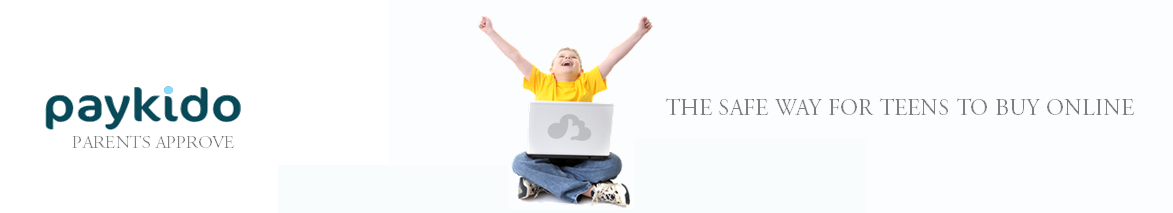
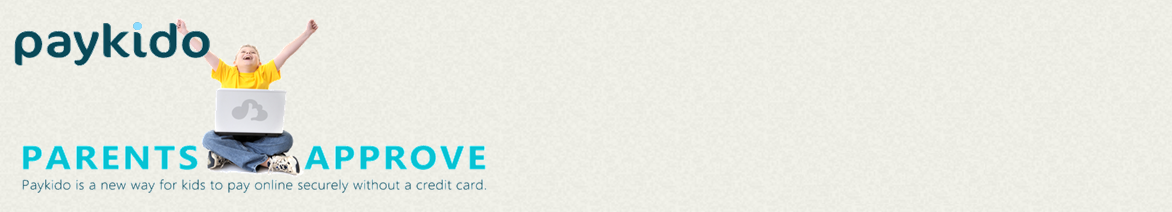
Registration and new look complete

diff --git a/public/stylesheets/subscriber.css b/public/stylesheets/subscriber.css
@@ -1,3 +1,65 @@
+.ui-very-rounded-corners {
+	border-bottom-left-radius: 20px;
+    border-bottom-right-radius: 20px;
+    border-top-left-radius: 20px;
+    border-top-right-radius: 20px;
+}
+
+#tell_me_more, #register {
+	-webkit-text-shadow: 0px -1px #666, 0px 0px #FFF;
+	-mox-text-shadow: 0px -1px #666, 0px 0px #FFF;
+	text-shadow: 0px -1px #666, 0px 0px #FFF;
+	color: #00BCCF;
+	z-index: 1000;
+	position: absolute;
+    top: 108px;
+    left: 1020px;
+	font-size: 20px;
+    height: 50px;
+    width: 147px;
+    z-index: 1000;
+	box-shadow: 0 2px 6px rgba(0,0,0,0.5), inset 0 1px rgba(255,255,255,0.3), inset 0 10px rgba(255,255,255,0.2), inset 0 10px 20px rgba(255,255,255,0.25), inset 0 -15px 30px rgba(0,0,0,0.3);
+   -o-box-shadow: 0 2px 6px rgba(0,0,0,0.5), inset 0 1px rgba(255,255,255,0.3), inset 0 10px rgba(255,255,255,0.2), inset 0 10px 20px rgba(255,255,255,0.25), inset 0 -15px 30px rgba(0,0,0,0.3);
+   -webkit-box-shadow: 0 2px 6px rgba(0,0,0,0.5), inset 0 1px rgba(255,255,255,0.3), inset 0 10px rgba(255,255,255,0.2), inset 0 10px 20px rgba(255,255,255,0.25), inset 0 -15px 30px rgba(0,0,0,0.3);
+   -moz-box-shadow: 0 2px 6px rgba(0,0,0,0.5), inset 0 1px rgba(255,255,255,0.3), inset 0 10px rgba(255,255,255,0.2), inset 0 10px 20px rgba(255,255,255,0.25), inset 0 -15px 30px rgba(0,0,0,0.3);}
+	border-bottom-left-radius: 20px;
+    border-bottom-right-radius: 20px;
+    border-top-left-radius: 20px;
+    border-top-right-radius: 20px;
+
+
+}
+
+#else.invitation_msg {
+
+	top: 200px;
+	    font-size: 20px;
+	font-family: Lucida Grande,Lucida Sans,Arial,sans-serif;
+
+
+}
+#second{
+	top: 120px;
+	font-size: 22px;
+	color: #00BCCF;
+	font-family: Lucida Grande,Lucida Sans,Arial,sans-serif;
+
+}
+#third{
+	top:153px;
+	
+}
+
+.invitation_msg {
+	z-index: 1000;
+	position: absolute;
+	left: 704px;
+	font-family:"Arial Rounded MT Bold";
+	color: #444444;
+	font-family: "Trebuchet MS";
+}
+
+
 .ui-widget-header input{
 	text-shadow: 0px -1px #666, 0px 0px #FFF;
 	-webkit-text-shadow: 0px -1px #666, 0px 0px #FFF;
@@ -80,9 +142,7 @@ td {
 }
 
 
-#under, #over {
-	margin-right: 235px;	
-}
+
 
 /*
 .ui-tabs-selected a {
@@ -190,7 +250,7 @@ img#gradient_wrap {
 
 #consumer_info_name, #consumer_info_phone, #consumer_info_pin, #consumer_info_pic {
 	float: right;
-	margin-right: 220px;
+	margin-right: 0px;
 	border-width: 0px;
 	text-align: right;
 }
@@ -572,7 +632,6 @@ tr.odd td.authorized_cell.really {
 .portlet-header input {
 	background: none;
 	width:130px;
-	font-weight: bold;
 	margin: 0;
 	padding: 0;
 }
@@ -1024,6 +1083,8 @@ a.login:hover {
 }
 
 .login {
+	position: absolute;
+	top: 30px;
     display: inline;
     z-index: 100;
     text-decoration: none;
@@ -1039,25 +1100,26 @@ a.login:hover {
 #signin {
     position: absolute;
     top: 41px;
-    left: 690px;
+    left: 657px;
 }
 
 #joinin {
-    position: absolute;
-    top: 41px;
-    left: 770px;
+
+    left: 937px;
 }
 
 #signedin {
-    position: absolute;
-    top: 30px;
-    left: 860px;
+
+    left: 448px;
 }
 
 #signout {
-    position: absolute;
-    top: 30px;
-    left: 1064px;
+
+    left: 1092px;
+}
+
+#whatis {
+	left: 704px;
 }
 
 .left_content {
@@ -1231,7 +1293,7 @@ body {
 
     margin-left: 5px;
 	width: 1159px;
-	background-image: url("/images/head_img3.png");
+	background-image: url("/images/head_img4.png");
 	width: 1172px;
 	height: 212px;
 		-moz-border-radius: 5px;

diff --git a/public/stylesheets/service.css b/public/stylesheets/service.css
@@ -6,26 +6,28 @@
 }
 
 #tell_me_more, #register {
+	-webkit-text-shadow: 0px -1px #666, 0px 0px #FFF;
+	-mox-text-shadow: 0px -1px #666, 0px 0px #FFF;
+	text-shadow: 0px -1px #666, 0px 0px #FFF;
+	color: #00BCCF;
 	z-index: 1000;
 	position: absolute;
-    top: 106px;
+    top: 114px;
     left: 1000px;
-	font-size: 35px;
-    height: 67px;
-    width: 254px;
+	font-size: 20px;
+    height: 50px;
+    width: 183px;
     z-index: 1000;
 	box-shadow: 0 2px 6px rgba(0,0,0,0.5), inset 0 1px rgba(255,255,255,0.3), inset 0 10px rgba(255,255,255,0.2), inset 0 10px 20px rgba(255,255,255,0.25), inset 0 -15px 30px rgba(0,0,0,0.3);
    -o-box-shadow: 0 2px 6px rgba(0,0,0,0.5), inset 0 1px rgba(255,255,255,0.3), inset 0 10px rgba(255,255,255,0.2), inset 0 10px 20px rgba(255,255,255,0.25), inset 0 -15px 30px rgba(0,0,0,0.3);
    -webkit-box-shadow: 0 2px 6px rgba(0,0,0,0.5), inset 0 1px rgba(255,255,255,0.3), inset 0 10px rgba(255,255,255,0.2), inset 0 10px 20px rgba(255,255,255,0.25), inset 0 -15px 30px rgba(0,0,0,0.3);
    -moz-box-shadow: 0 2px 6px rgba(0,0,0,0.5), inset 0 1px rgba(255,255,255,0.3), inset 0 10px rgba(255,255,255,0.2), inset 0 10px 20px rgba(255,255,255,0.25), inset 0 -15px 30px rgba(0,0,0,0.3);}
-	text-shadow: 0px 1px 1px #fff;
-	-webkit-text-shadow: 0px 1px 1px #fff;
-	-mox-text-shadow: 0px 1px 1px #fff;
-	text-shadow: -1px -1px #666, 1px 1px #FFF;
 	border-bottom-left-radius: 20px;
     border-bottom-right-radius: 20px;
     border-top-left-radius: 20px;
     border-top-right-radius: 20px;
+
+
 }
 
 #else.invitation_msg {

diff --git a/public/stylesheets/consumer.css b/public/stylesheets/consumer.css
@@ -12,7 +12,7 @@
 
     background: #d7ebf9 url(/themes/Cupertino/images/ui-bg_glass_80_d7ebf9_1x400.png) 50% 50% repeat-x; 
     color: #FFFFE0;
-    font-size: 25px;
+    font-size: 24px;
     height: 45px;
     width: 175px;
     z-index: 1000;

diff --git a/public/javascripts/paykido-api.js b/public/javascripts/paykido-api.js
@@ -84,7 +84,7 @@
 
   $.extend($.facebox, {
     settings: {
-      opacity      : 0.2,
+      opacity      : 0.4,
       overlay      : true,
       loadingImage : '/images/fbloading.gif',
       closeImage   : '/images/closelabel.png',

diff --git a/app/controllers/consumer_controller.rb b/app/controllers/consumer_controller.rb
@@ -197,6 +197,7 @@ class ConsumerController < ApplicationController
     redirect_to :controller => :play, 
                 :action => :index
 # find out later why: all session is being erased
+# perhaps the save state doesnt escape the url
 #                , 
 #                :scroll => session[:last_scroll], 
 #                :product => session[:product_title] + '@' + session[:product_price], 
@@ -222,11 +223,16 @@ class ConsumerController < ApplicationController
     
     @payer = @consumer.payer || Payer.find_or_initialize_by_email(facebook_params['registration']['payer_email'])
     @payer.update_attributes!(
-                              :name => facebook_params['registration']['payer_name'], 
-                              :email => facebook_params['registration']['payer_email'], 
-                              :phone => facebook_params['registration']['payer_phone'])    
+          :name => facebook_params['registration']['payer_name'], 
+          :email => facebook_params['registration']['payer_email'], 
+          :phone => facebook_params['registration']['payer_phone'])    
 
-    @consumer.update_attributes!(:name => facebook_params['registration']['name'],:payer_id => @payer.id, :billing_phone => facebook_params['registration']['consumer_phone'])
+    @consumer.update_attributes!(
+          :name => facebook_params['registration']['name'].split(' ')[0],
+          :payer_id => @payer.id, 
+          :billing_phone => facebook_params['registration']['consumer_phone'],
+          :pic =>  "https://graph.facebook.com/" + facebook_params['user_id'] + "/picture?type=large",
+          :tinypic => "https://graph.facebook.com/" + facebook_params['user_id'] + "/picture")
    
     @rule = @consumer.most_recent_payer_rule || @consumer.create_def_payer_rule!
 

diff --git a/app/controllers/service_controller.rb b/app/controllers/service_controller.rb
@@ -16,14 +16,13 @@ class ServiceController < ApplicationController
   
   def invite
     
-    @user = User.authenticate_by_hp(params[:name], params[:authenticity_token])
+    @user = User.authenticate_by_hp(params[:email], params[:authenticity_token])
     if @user
       clear_payer_session if session[:payer] and session[:payer].id  != @user.payer.id 
       session[:user]  = @user
       session[:payer] = @payer = @user.payer
     else
       flash.now[:notice] = "user or password are incorrect. Please try again!"
-      return
     end
     
     render :action => :index
@@ -35,11 +34,7 @@ class ServiceController < ApplicationController
   end
     
   def safecharge_page
-    
-    #temporary until the push to heroku
-    sc_error
-    return
-    
+        
     merchant_site_id = "34721"
     merchant_id = "4678792034088503828"
     time_stamp = "2010-08-25%2011:12:52"
@@ -50,8 +45,8 @@ class ServiceController < ApplicationController
     item_amount_1 = "1"
     item_quantity_1 = "1"
     version = "3.0.0"
-    success_url = "http://alpha.paykido.com/service/sc_success"
-    error_url = "http://alpha.paykido.com/service/sc_success" 
+    success_url = "http://paykido.heroku.com/service/sc_success"
+    error_url = "http://paykido.heroku.com/service/sc_success" 
     
     Safecharge.post('/ppp/purchase.do', :query => {
      :merchant_site_id => merchant_site_id,
@@ -104,7 +99,7 @@ class ServiceController < ApplicationController
     @token = params[:Token]   
   end
   
-  def sc_error
+  def sc_success
     flash[:message] = "Congratulations! You are registered to Paykido!"
     redirect_to  :controller => "subscriber", :action => "payer_signedin"
   end

diff --git a/app/controllers/subscriber_controller.rb b/app/controllers/subscriber_controller.rb
@@ -11,16 +11,39 @@ class SubscriberController < ApplicationController
   before_filter :check_retailer_and_set_variables, :only => [:retailer_signedin]
   
   
-#  def index
-    
-#  end
+  def index
+    redirect_to :controller => "service", :action => "index"    
+  end
   
+    def invite
+    
+    @user = User.authenticate_by_hp(params[:email], params[:authenticity_token])
+    if @user
+      clear_payer_session if session[:payer] and session[:payer].id  != @user.payer.id 
+      session[:user]  = @user
+      session[:payer] = @payer = @user.payer
+    else
+      flash.now[:notice] = "user or password are incorrect. Please try again!"
+    end
+    
+    redirect_to :action => :payer_signedin, :name => params[:name], :invited_by => params[:invited_by]
+    
+  end
+  
+  # for tests only
+    def email
+      @user = session[:user]
+      @consumer = session[:consumer]
+      UserMailer.joinin_email(@user, @consumer).deliver
+      redirect_to :action => :index
+    end
+
 
   def signin
     
    if request.post?
      
-      @user = User.authenticate(params[:user][:name], params[:user][:password])
+      @user = User.authenticate(params[:user][:email], params[:user][:password])
       unless @user
         flash.now[:notice] = "user or password are incorrect. Please try again!"
         return

diff --git a/app/models/user.rb b/app/models/user.rb
@@ -39,8 +39,8 @@ class User < ActiveRecord::Base
     self.affiliation == "administrator" 
   end
   
-  def self.authenticate_by_hp(name, hash)
-    user = self.find_by_name(name)
+  def self.authenticate_by_hp(email, hash)
+    user = self.find_by_email(email)
     return unless user
     if user.hashed_password != hash
       user = nil
@@ -48,9 +48,9 @@ class User < ActiveRecord::Base
     user
   end
 
-  def self.authenticate(name, password)
+  def self.authenticate(email, password)
 
-    user = self.find_by_name(name)
+    user = self.find_by_email(email)
     return unless user
 
     if name == "guest" and password == "1"

diff --git a/app/mailers/user_mailer.rb b/app/mailers/user_mailer.rb
@@ -5,7 +5,7 @@ class UserMailer < ActionMailer::Base
 
     @user = user
     @consumer = consumer
-    @url  = url_for(:controller => "service", :action => "invite") + "?name=" + @user.name + "&authenticity_token=" + @user.hashed_password + "&email=" + @user.email + "&invited_by=" + @consumer.name
+#    @url  = url_for :controller => "service", :action => "invite" + "?name=" + @user.name + "authenticity_token=" + @user.hashed_password + "&email=" + @user.email + "&invited_by=" + @consumer.name
 
     email_with_name = "#{@user.name} <#{@user.email}>"
     mail(:to => email_with_name, :subject => "Join Paykido!")
